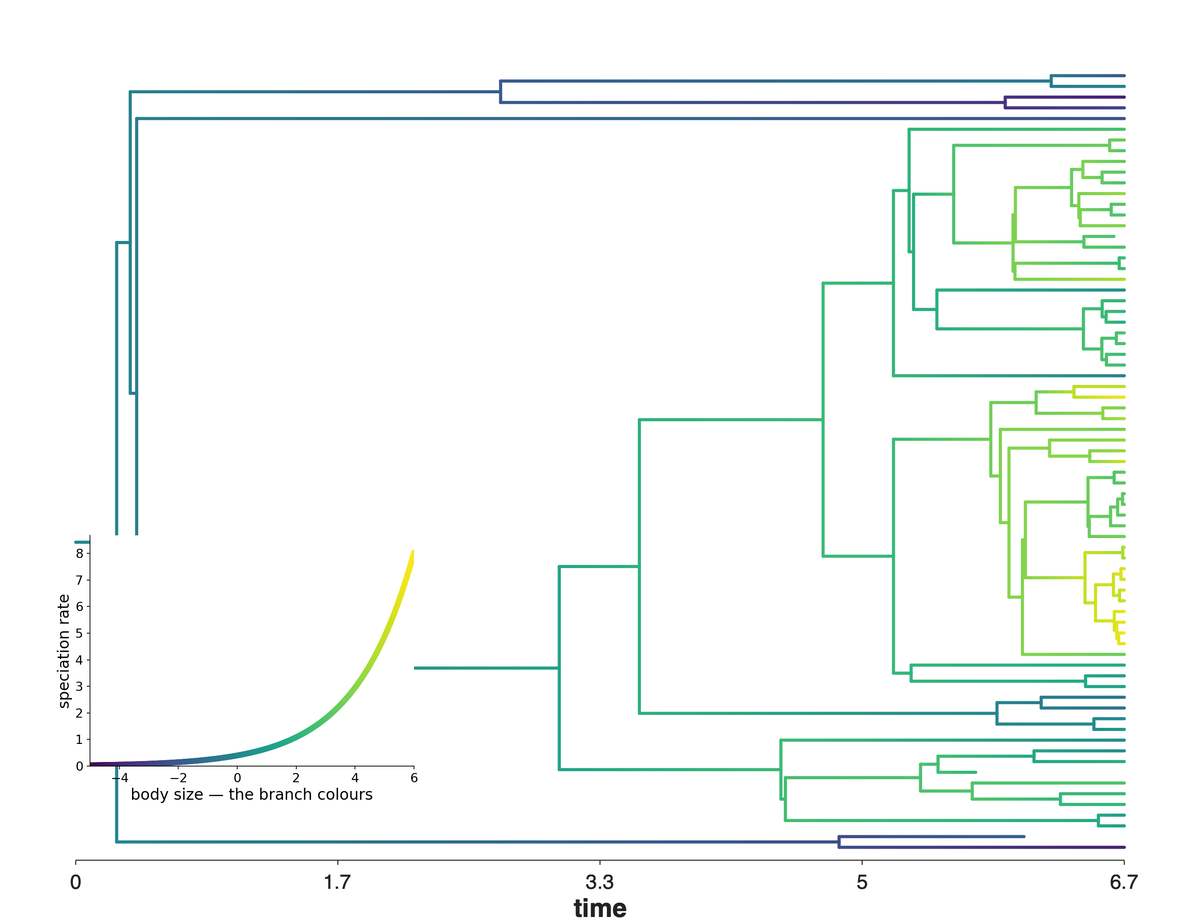
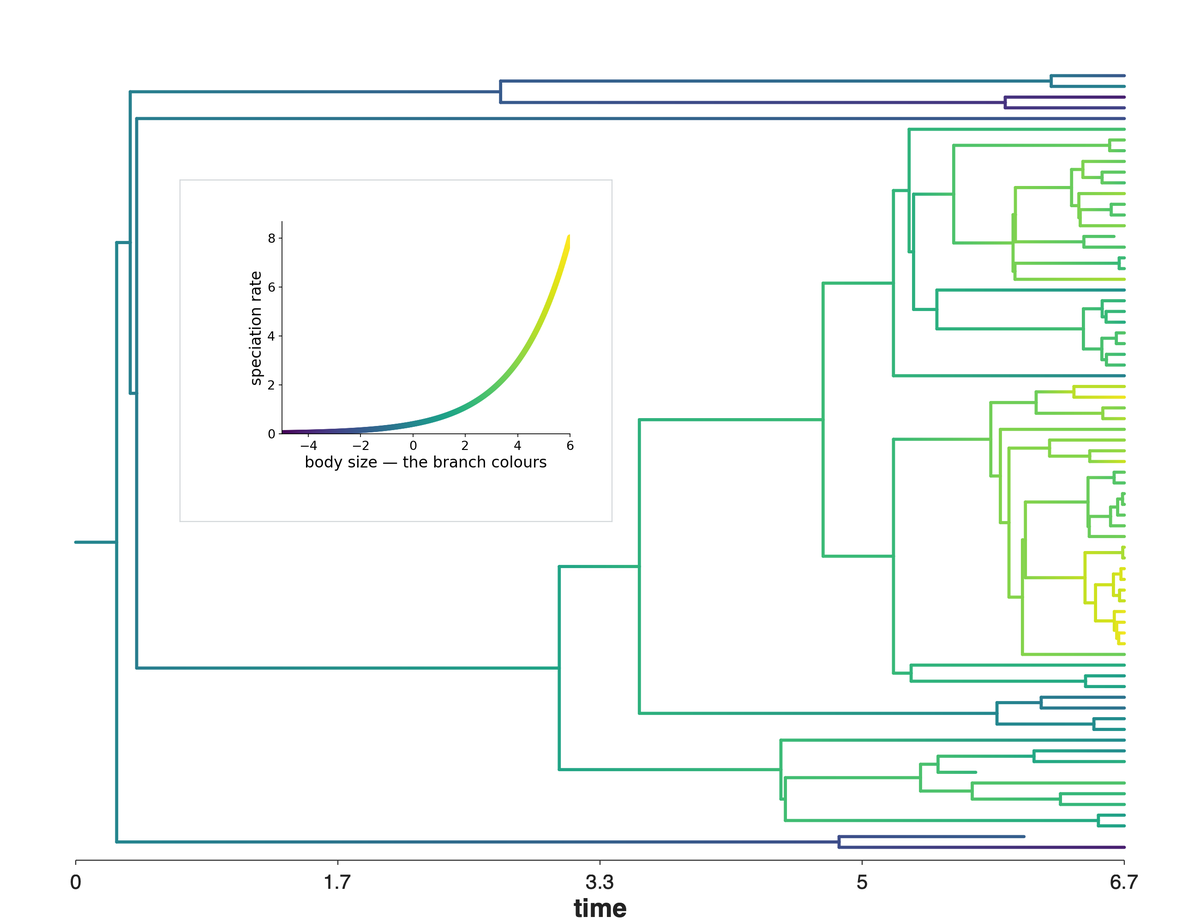
fix(gallery): the QuaSSE inset is a card, away from the tree's own axis
It was a plot with an x axis of its own, sitting unframed just above the tree's
time axis. The two read as one set of coordinates, and branches came right up to
its tick labels. It now sits in the empty quarter of the tree, on a bordered
white card.

diff --git a/gallery/helpers.py b/gallery/helpers.py
@@ -280,17 +280,33 @@ def composite_model_realization(realization_png: str, out: str, draw_model, *,
 
 
 def composite_markov(tree_png: str, out: str, draw_fn, *, loc=(0.02, 0.09, 0.34, 0.36),
-                     keep_axes: bool = False) -> None:
+                     keep_axes: bool = False, panel=None) -> None:
     """Place a tree PNG as the full background and draw the model as an inset in the bottom-left.
 
     ``keep_axes`` leaves the inset's own axes on. A Markov chain is drawn in bare coordinates and
     wants them off; a response curve is a plot, and without its axes it says nothing about what
-    value gives what rate."""
+    value gives what rate.
+
+    ``panel`` is ``(left, bottom, right, top)`` in figure fractions, and puts a bordered white card
+    under the inset, grown by those margins. A drawing in bare coordinates does not need one — there
+    is nothing to confuse it with. A plot does: its own axes ran alongside the tree's time axis with
+    nothing between them, so the two read as one coordinate system, and branches came right up to
+    the tick labels."""
     img = mpimg.imread(tree_png)
     fig = plt.figure(figsize=(img.shape[1] / 150, img.shape[0] / 150))
     bg = fig.add_axes([0, 0, 1, 1])
     bg.imshow(img)
     bg.set_axis_off()
+    if panel is not None:
+        left, bottom, right, top = panel
+        card = fig.add_axes([loc[0] - left, loc[1] - bottom,
+                             loc[2] + left + right, loc[3] + bottom + top])
+        card.set_xticks([])
+        card.set_yticks([])
+        card.patch.set_facecolor("#ffffff")
+        for spine in card.spines.values():
+            spine.set_color("#d3d7da")
+            spine.set_linewidth(1.1)
     inset = fig.add_axes(loc)
     draw_fn(inset)
     if not keep_axes:

diff --git a/gallery/joining.py b/gallery/joining.py
@@ -135,8 +135,11 @@ def quasse(out):
      # the same limits the inset's ramp spans, so the two say the same thing about a colour
      + ph.trees.color_branches(vals, cmap="viridis", limits=limits)
      + ph.trees.time_axis("time", tick_size=22, label_size=28)).save(tree_png)
+    # up in the empty quarter of the tree, not down beside its time axis: the inset is a plot with an
+    # x axis of its own, and next to the tree's the two read as one set of coordinates
     h.composite_markov(tree_png, out, lambda ax: _draw_response(ax, *limits),
-                       loc=(0.075, 0.17, 0.27, 0.25), keep_axes=True)
+                       loc=(0.235, 0.53, 0.24, 0.23), keep_axes=True,
+                       panel=(0.085, 0.095, 0.035, 0.045))
 
 
 def classe(out):
